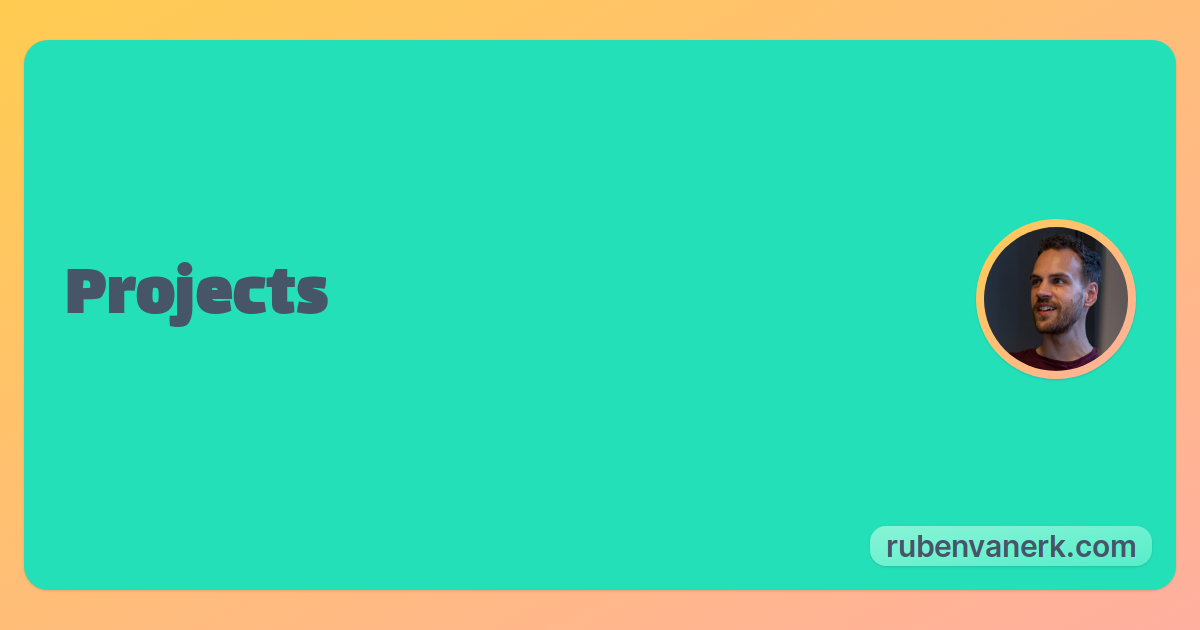
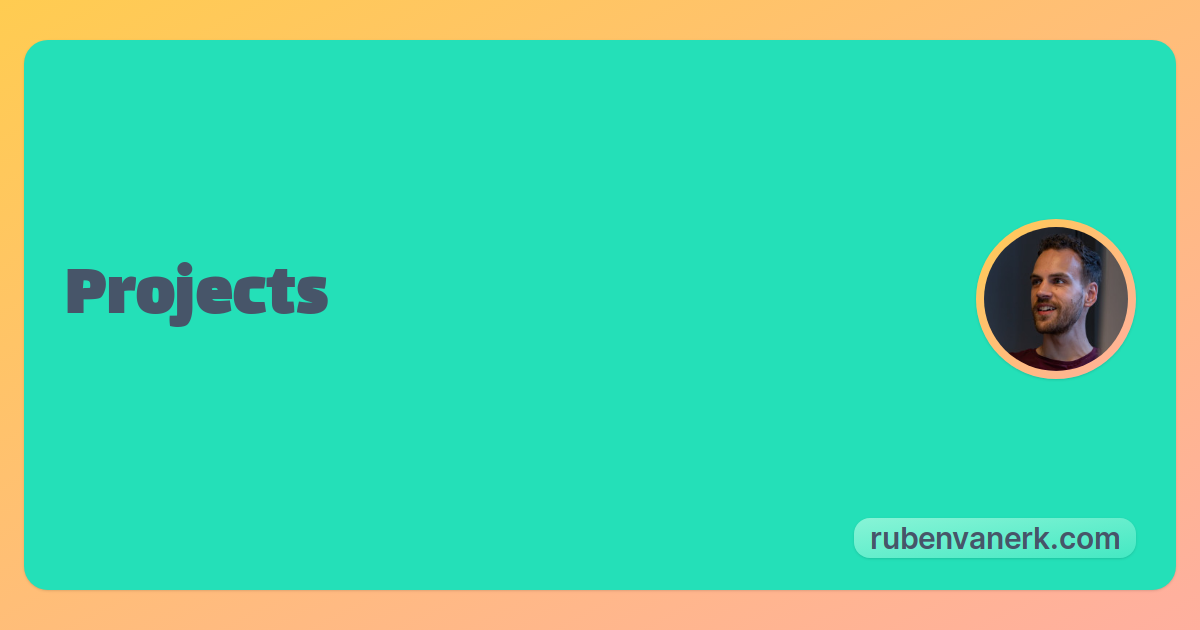
Add read time to social image

Changed region(s): [[0.7092, 0.8143, 0.9867, 0.9048]]

diff --git a/resources/views/social_image.antlers.html b/resources/views/social_image.antlers.html
@@ -1,5 +1,5 @@
 <!DOCTYPE html>
-<html>
+<html class="bg-none">
 <head>
     <meta charset="utf-8"/>
     <meta name="viewport" content="width=device-width, initial-scale=1.0"/>
@@ -8,6 +8,7 @@
 <body class="antialiased">
 <div class="w-[1200px] h-[630px] gradient-primary px-6 py-10 text-slate-600 text-3xl space-y-3">
     <div class="bg-turquoise-400 rounded-3xl shadow p-10 h-full flex flex-col justify-around relative">
+
         <div class="flex items-center justify-between space-x-8 -mt-8">
             <div>
                 {{ if subtitle }}
@@ -25,9 +26,18 @@
             </div>
         </div>
 
-        <div class="absolute bottom-6 right-6 font-semibold text-3xl rounded-2xl bg-gradient-to-br from-turquoise-200/80 to-turquoise-300/80 shadow w-fit px-4 py-0.5">
-            rubenvanerk.com
+        <div class="absolute bottom-8 w-full flex justify-between pr-20">
+            {{ if content }}
+            <div class="font-semibold text-3xl rounded-2xl bg-gradient-to-br from-turquoise-200/80 to-turquoise-300/50 shadow w-fit px-4 py-0.5">
+                {{ content | read_time }} min
+            </div>
+            {{ /if }}
+
+            <div class="font-semibold text-3xl rounded-2xl bg-gradient-to-br from-turquoise-200/80 to-turquoise-300/50 shadow w-fit px-4 py-0.5 ml-auto">
+                rubenvanerk.com
+            </div>
         </div>
+
     </div>
 </div>
 </body>

diff --git a/routes/web.php b/routes/web.php
@@ -5,14 +5,19 @@ use Illuminate\Support\Facades\Route;
 Route::get('social-image/{entry}', function ($entry) {
     $entry = \Statamic\Entries\Entry::find($entry);
 
-    $subtitle = $entry->seo_image_subtitle ?? ($entry->collection->handle === 'articles' ? 'Published on ' . $entry->date->format('M j, Y') : null);
+    $content = null;
+    $subtitle = $entry->seo_image_subtitle;
+
+    if ($entry->collection->handle === 'articles') {
+        $content = $entry->content;
+        $subtitle ??= 'Published on ' . $entry->date->format('M j, Y');
+    }
 
     return (new \Statamic\View\View)
         ->template('social_image')
         ->with([
             'title' => $entry->seo_image_title ?: $entry->title,
             'subtitle' => $subtitle,
+            'content' => $content,
         ]);
 })->name('social-image');
-
-//Route::statamic('social-image/{entry}', 'social_image');

diff --git a/content/collections/articles/2023-02-22.artisan-window.md b/content/collections/articles/2023-02-22.artisan-window.md
@@ -6,7 +6,7 @@ title: 'Creating a window in the Artisan console'
 author:
   - 3dc3f142-994f-4ab8-a7e1-c6b36f0524d0
 updated_by: 3dc3f142-994f-4ab8-a7e1-c6b36f0524d0
-updated_at: 1677838953
+updated_at: 1677844380
 excerpt: 'When outputting many lines in an Artisan console command, a user can easily become overwhelmed and lose context. Creating a window can solve this problem.'
 ---
 When outputting many lines in an Artisan console command, a user can easily become overwhelmed and lose context. If you feel like this happens with your console output, you could opt to not show output at all. For example, by using a `task`.
